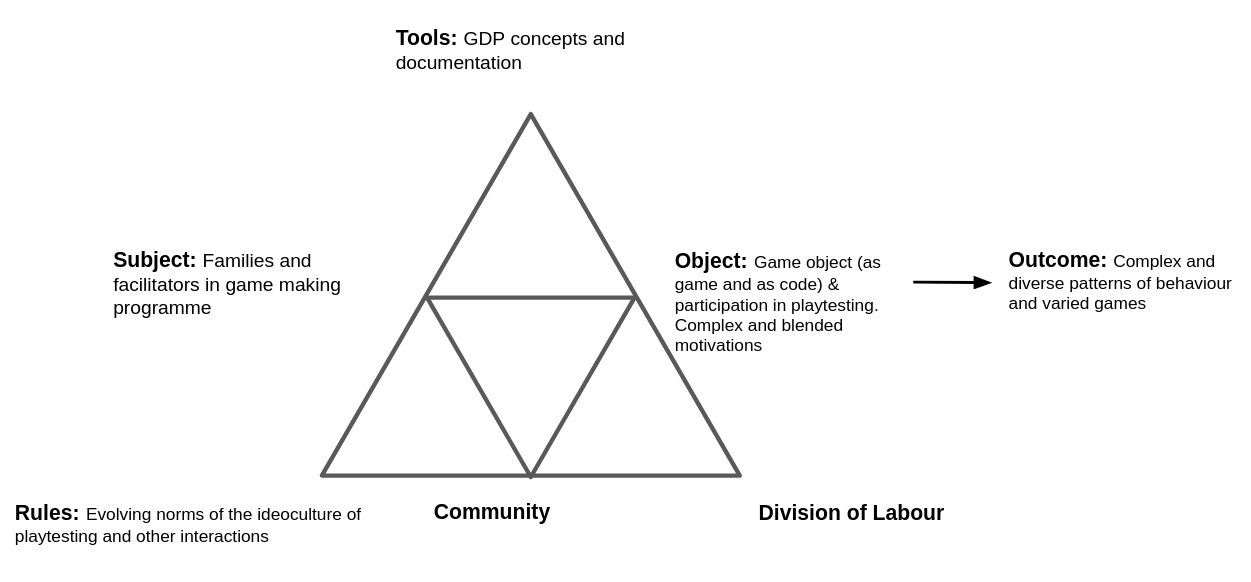
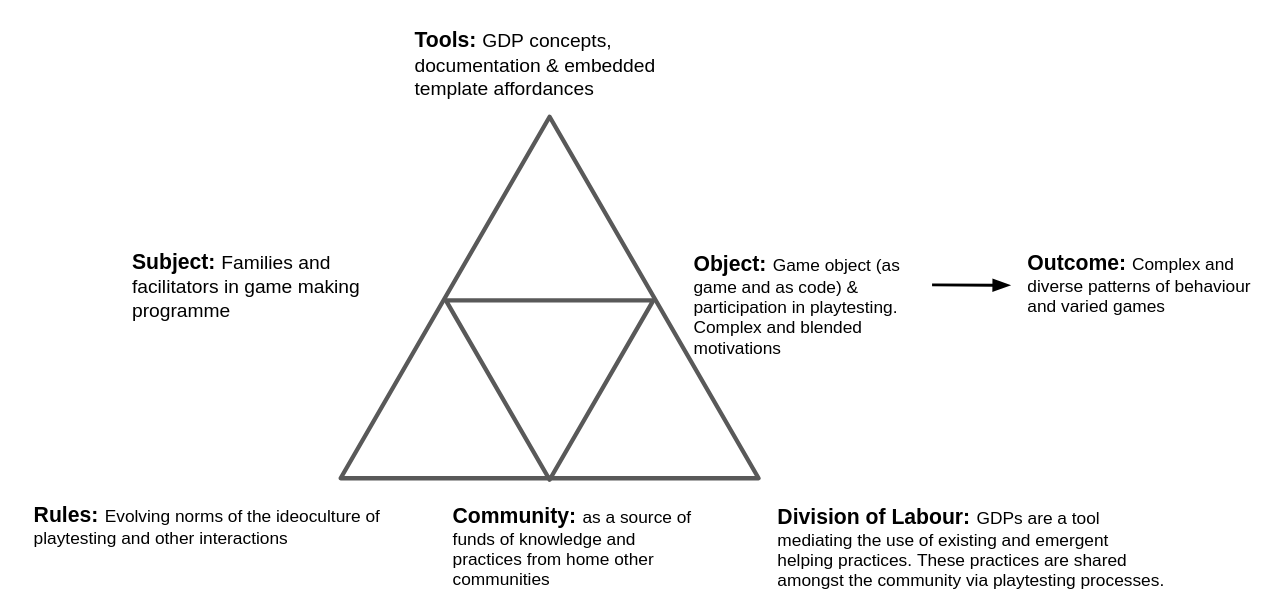
reframing chapter part one

diff --git a/_posts/thesis_chapters/2025-3-6-Gdps.md b/_posts/thesis_chapters/2025-3-6-Gdps.md
@@ -65,6 +65,17 @@ title:  6. The Use of Gameplay Design Patterns "It’s like a project in itself,
 
 # The Use of Gameplay Design Patterns "It’s like a project in itself, really"
 
+## Research Questions March 2025
+
+**Principle question:** How can pedagogies to support CGD&P be enriched using socio-cultural approaches (CHAT more specifically)?
+
+
+1. What contradictions arose in participation in this research’s CGD&P processes and how were they addressed?
+
+2. How can the use of a collection of game design patterns support CGD&P, in particular in relation to abstract and concrete dimensions of existing pedagogies?
+
+3. How can varied dimensions of agency be identified and nurtured in an evolving community of game makers? (and thus what subsequent implications does this have on understandings of pedagogy design)
+
 ## Research Questions - March 2024
 
 1. What pedagogical tools and processes are available to support novices to overcome barriers to participation in game coding processes?
@@ -660,6 +671,24 @@ This discussion section discusses the complexity of the exanded object of activi
 <!-- the role of playtesting and including warm-up games and session reflections -->
 
 <!-- are explored in relation to the development of agency in the following chapter. -->
+
+### Discussion on emerging cultural practices / idioculture
+
+#### Playful idioculture
+
+Examples?
+
+#### Game maker types
+
+As explored in Chapter 6. the emergence of styles as something that I reflected back to participants to validte.
+
+
+The evidence of game maker types is in appendix x.
+
+
+
+
+
 ### Addressing the use of GDPs in relation to theoretical understandings of processes of mediation (and incorporation in repertoires of practice)
 
 NOT SURE OF Repertoires YET .
@@ -731,33 +760,45 @@ In Chapter 2 the value of a learning design using computational thinking pattern
 Chapter 2 also explored concepts of fluency in varied forms within constructionist research, technological, digital and computation.
 By way of contrast, the guiding principle being self expression and identity formation. However, given the limitations of constructionism as a theoretical framework, this research also reflects these limits.
 
-The limitations here are on detail on how to enact identity formation via specific pedagogical strategies. While CHapter 2. explored the value of pair and peer programming, it also highlighted a gap in the research in terms of x.
+The limitations here are on detail on how to enact identity formation via specific pedagogical strategies. While Chapter 2. explored the value of pair and peer programming, it also highlighted this area as one needed further development.
 
-SO?
+As a step towards this development we can identify the characteristics of fluency in the mediational uses of GDPs outlined in this chapter, identifying techniques used to design for those characteristics, and to surface additional socio-cultural concepts useful for an enriched understanding of processes as play.  
+
+**Identifying characteristics of fluency**
+
+The following summary is offered as an immediate analysis using the frame of computational fluency to ground further exploration in Chapter 7. In summative terms fluency can be seen in the mediational strategies outlined in this chapter in the following ways.
+
+Perhaps via a table.
+
+- via instrumental coding competency needed to make changes effectively with or without supporting documentation
+- from a as a read / write perspective, learners should be able to write as well as read programs as a form of empowerment [@resnick2002rethinking]
+- via expression of creative or significant ideas in constructing digital products   
+- as a means of identity formation in groups and collectives [@gee_chapter_2000]
+- Via  more general (non-coding) participation in communities, i.e. well informed feedback  on other projects.  
 
 
-CHALLNGE HERE HOW TO EXPLORE IN PART HERE USEFULLY AND MAKE ABRIDGE TO THE NEXT SECTION.
+<!-- NOTE CHALLENGE HERE HOW TO EXPLORE IN PART HERE USEFULLY AND MAKE ABRIDGE TO THE NEXT SECTION. -->
 
 <!-- NOTE - IS THIS IN THE NEXT CHAPTER? is this just in relation to GDPs? -->
-**Designing for fluency**
+**Discussion on designing for fluency**
+
+NOTE THIS SHOULD BE LIMITED AS EXPLORED LATER TOO. FLUENCY NOT AGENCY / MAKE A DISTINCTION/ - OR PERHAPS REMOVE.
 
 The work of the constructionist school is rich in a legacy of designing for fluency, notably including: software microworlds, affordance rich tools sets facilitating open-ended experimentations, accessible multi-media authoring software and community of Scratch. One idea which while present in part in online community of Scratch is that of constructopedia, an evolving resource of inspirational design elements, and accompanying instructions.
+
 
 The collection of GDPs with linked documentation fulfils this role.    
 
 To extend the concepts of designing for fluidity, it is of value to explore the characteristics of the emerging design practices and potential strategies to support them. These include: a flexible approach to design stages, varied forms of incorporation of external repertoires, and a tension between choice of participant pathway and creative restrictions in the learning design.
 
-LINK TO NEXT CHAPTER.
+
+
 
 <!-- This section synthesises my observations on video data and my own journal reflections on this topic of designing for flow. Flow is a highly subjective experience, and as such, there is a danger that I privilege my own interests in this analysis, and a tendency that I reflect on in the concluding chapter. -->
 
 
 <!-- REMOVE OR MOVE TO LR IF NEEDED.
 Given the disparate nature of the features of designed and emerging pedagogy, it is of value to address ways of conceptualise the overall learning process. While the chaotic directions possible in design evoke a rhizomatic approach to learning [@biffi_chasing_2017-1; @de_freitas_classroom_2012; @cormier2008rhizomatic], I concur with Biffi et al [ @biffi_chasing_2017-1, p. 972] who identify significant competencies required which are not well-aligned with the age group of this context.  -->
-
-
-
-
 
 
 <!-- A DESIGN FOR MENTALISTS BY A MENTALIST -->
@@ -867,11 +908,13 @@ The observations of this chapter show the diversity and flexibility of uses of G
 The next chapter builds on this to propose the potential of GDPs as a relatable navigational framework, occupying a the space between too concrete to be repeated and too theoretical to be grasped by novice game makers.
 
 
-The findings identified a complex object with a diversity of motivation which pose challenges in communciting in simple terms in terms of what characteristics we are desiging learning environments to devolop. The candidates of proximal flow and computational fluency were explored in relation to existing research and gaps were identified in there coverage of the importance of learning agency and identify formation.
+The findings identified a complex object with a diversity of motivation which pose challenges in communicating in simple terms in terms of what characteristics we are designing learning environments to develop. The candidates of proximal flow and computational fluency were explored in relation to existing research and gaps were identified in there coverage of the importance of learning agency and identify formation.
 
-As such in the next chapter, this gap is addressed via the socio-cultural framing of learning. This is done in several ways?
+As such in the next chapter, this gap is addressed via the socio-cultural framing of learning.
 
--  as participation which can involved into repertoires of practice [@lecusay_telementoring_2015; @gutierrez_learning_2019-1].
+<!-- This is done in several ways?
+
+-  as participation which can involved into repertoires of practice [@lecusay_telementoring_2015; @gutierrez_learning_2019-1]. -->
 
 
 

diff --git a/_posts/thesis_chapters/2025-3-7-Culture.md b/_posts/thesis_chapters/2025-3-7-Culture.md
@@ -232,6 +232,10 @@ This section explores these academic conceptions in a playful way using relatabl
 
 ## Part one - Exploring concepts of abstract and concrete knowledge frameworks in relation to Game Design Patterns
 
+1. Recap  concepts of abstraction  
+2. Link to data
+3. Then begin practical use of this take - tinkering pedagogy
+
 
 <!-- 1. Recap, GDPs as a Germ cell, Exploring CHAT concepts of abstraction  
 2. Locating TADS in this perspective, via 3GAT concept of expansion via double stimulation and TADS
@@ -239,16 +243,22 @@ This section explores these academic conceptions in a playful way using relatabl
 4. then Waite Levels of abstraction - & observations
 5. Then begin practical use of this take - tinkering pedagogy -->
 
-In chapter two I described the characteristics and limits of existing pedagogies in the domain of computer game design and programming (CGD&P) addressing conceptions of abstraction including computational thinking; the role of levels of abstraction for teachers and learners; and the value of epistemological pluralism as a way to value concrete approaches. The research process, in particular attempts in later stages to align with UK computing curricular concerns, provoked careful reflection on abstract-concrete dimensions of emerging knowledge happening in the game making and digital making more generally. The previous chapter began to explore, through the lens of personal appropriation, a variety of concepts and practices suitable for development via this learning design in the form of a map of learning dimensions.
+Secondly, the tension between abstract and concrete dimension of the process of learning to program runs as a theme through the literature of the domain of computer game design and programming (CGD&P). In chapter two I described the characteristics and limits of existing pedagogies in the domain of CGD&P addressing conceptions of abstraction including computational thinking; the role of levels of abstraction for teachers and learners; and the value of epistemological pluralism as a way to value concrete approaches.
 
-This chapter section develops this line of thinking in two broad streams. Firstly, the research process and the evolving design involve a process of _rising to the concrete_, an analytical process involving identifying from concrete data an abstraction of interest and utility and leveraging the power of this concept to generate distinct concrete instantiations of it. Secondly, the tension between abstract and concrete dimension of the process of learning to program runs as a theme through the literature of this domain. This section ends by unifying these threads with a proposal of GDPs as an intermediate-level construct located between these poles, demonstrating their utility for educational designers, researchers and for participants.
+The research process, in particular attempts in later stages to align with UK computing curricular concerns, provoked careful reflection on abstract-concrete dimensions of emerging knowledge happening in the game making and digital making more generally.
+
+Chapter 2 began to explore, through the lens of personal appropriation, a variety of concepts and practices suitable for development via this learning design in the form of a map of learning dimensions.
+
+The research process and the evolving design involve a process of _rising to the concrete_, an analytical process involving identifying from concrete data an abstraction of interest and utility and leveraging the power of this concept to generate distinct concrete instantiations of it.
+
+This section ends with a proposal of GDPs as an gateway construct located to access abstract and concrete dimensions of the learning experience, demonstrating their utility for educational designers, researchers and for participants.
 
 
 
 <!-- surfacing a distinction between curricular contents commonly associated with a more abstract understandings of personal knowledge, including more abstract elements of computation thinking.  -->
 
 
-To start, however, let us consider the nature of the utility of abstraction using this study's theoretical framework of activity theory. For Sannino' [-@sannino_activity_2011] distinction between empirical abstraction, described as "observation and categorization", and theoretical abstraction, characterised as "practical transformation, change, and experimentation". The utility of such theoretical abstraction lies in its ability to generate "concrete manifestations and developmental forms of the reality under scrutiny", hence the use of the term _germ cell_ [@sannino_activity_2011, p.590]. In this research, the empirical level of abstraction was most prevalent present in P1, D1 and P2 where features to be added to the game were classified as gameplay features and categorised. The nature of abstraction becomes more theoretical as I position each feature as a gameplay design pattern. The guiding conception is the pedagogical utility of a strongly coupled link between a feature of an observable game product (in this case gameplay design patterns) and scaffolding resources available within a community. This concept becomes the root of the varied approaches and forms of support outlined in Chapter 5 and in the resulting uses of GDPs in Chapter 6. The following section makes a parallel between the utility of germ cell concepts and so-called strong concepts or intermediate knowledge in design theory [@hook_strong_2012; @barendregt_intermediate-level_2018].
+To start, let us consider abstraction using this study's theoretical framework of activity theory. For Sannino' [-@sannino_activity_2011] distinction between empirical abstraction, described as "observation and categorization", and theoretical abstraction, characterised as "practical transformation, change, and experimentation". The utility of such theoretical abstraction lies in its ability to generate "concrete manifestations and developmental forms of the reality under scrutiny", hence the use of the term _germ cell_ [@sannino_activity_2011, p.590]. In this research, the empirical level of abstraction was most prevalent present in P1, D1 and P2 where features to be added to the game were classified as gameplay features and categorised. The nature of abstraction becomes more theoretical as I position each feature as a gameplay design pattern. The guiding conception is the pedagogical utility of a strongly coupled link between a feature of an observable game product (in this case gameplay design patterns) and scaffolding resources available within a community. This concept becomes the root of the varied approaches and forms of support outlined in Chapter 5 and in the resulting uses of GDPs in Chapter 6. The following section makes a parallel between the utility of germ cell concepts and so-called strong concepts or intermediate knowledge in design theory [@hook_strong_2012; @barendregt_intermediate-level_2018].
 
 
 <!-- Some instances based on this kernel concept were created by myself in response to user requests in varied forms of support documentation outlined in Chapter 5 ( e.g. quick start card -->
